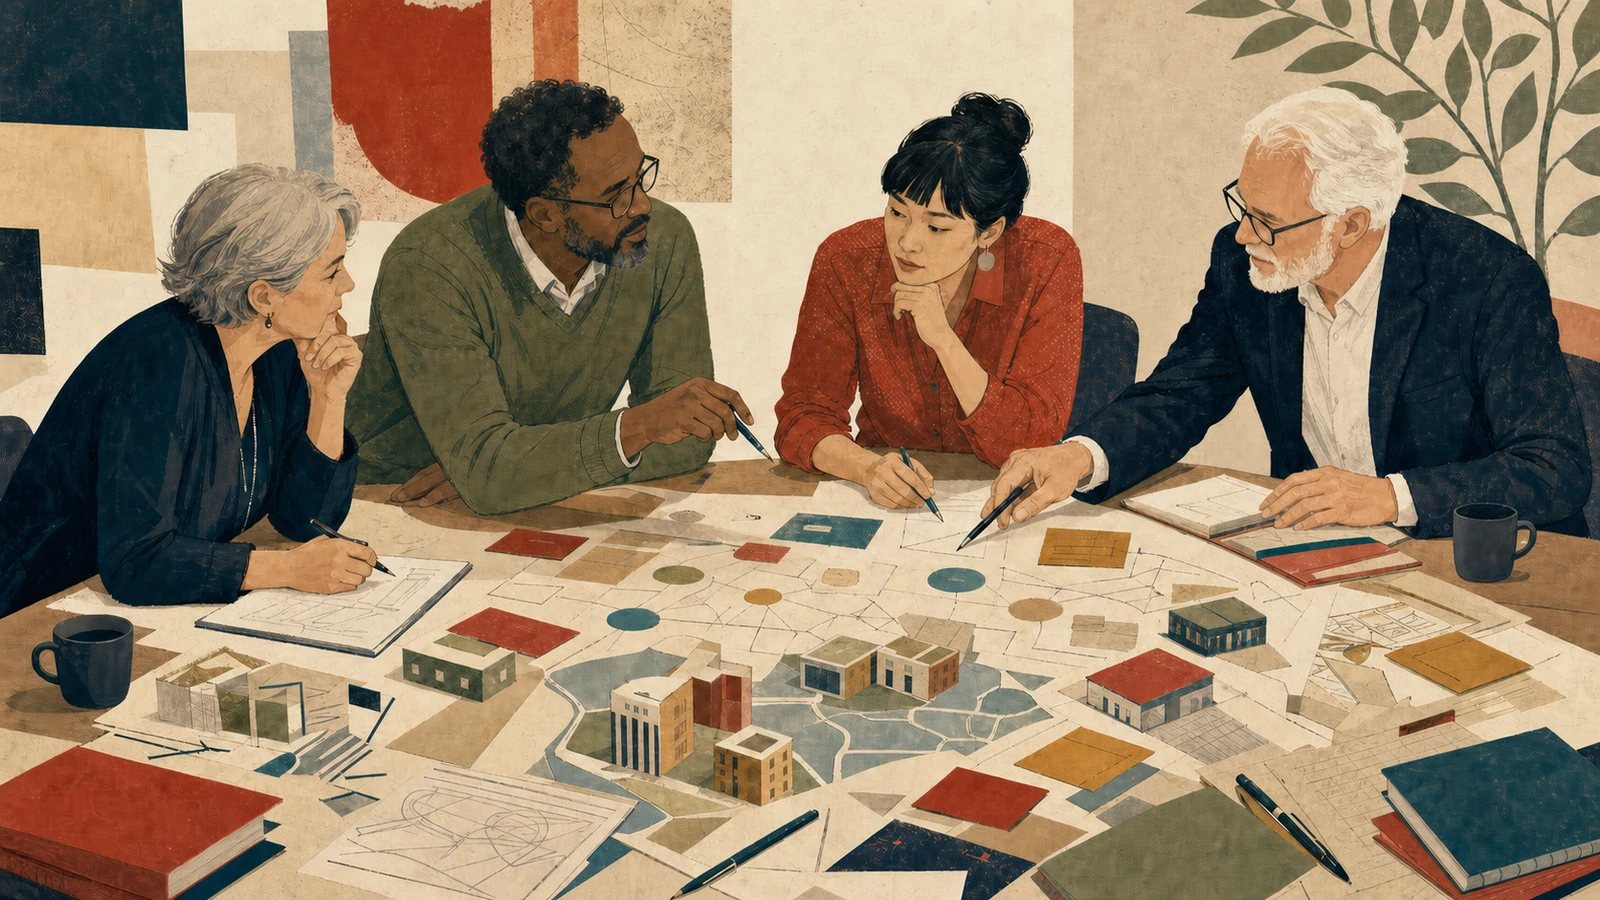
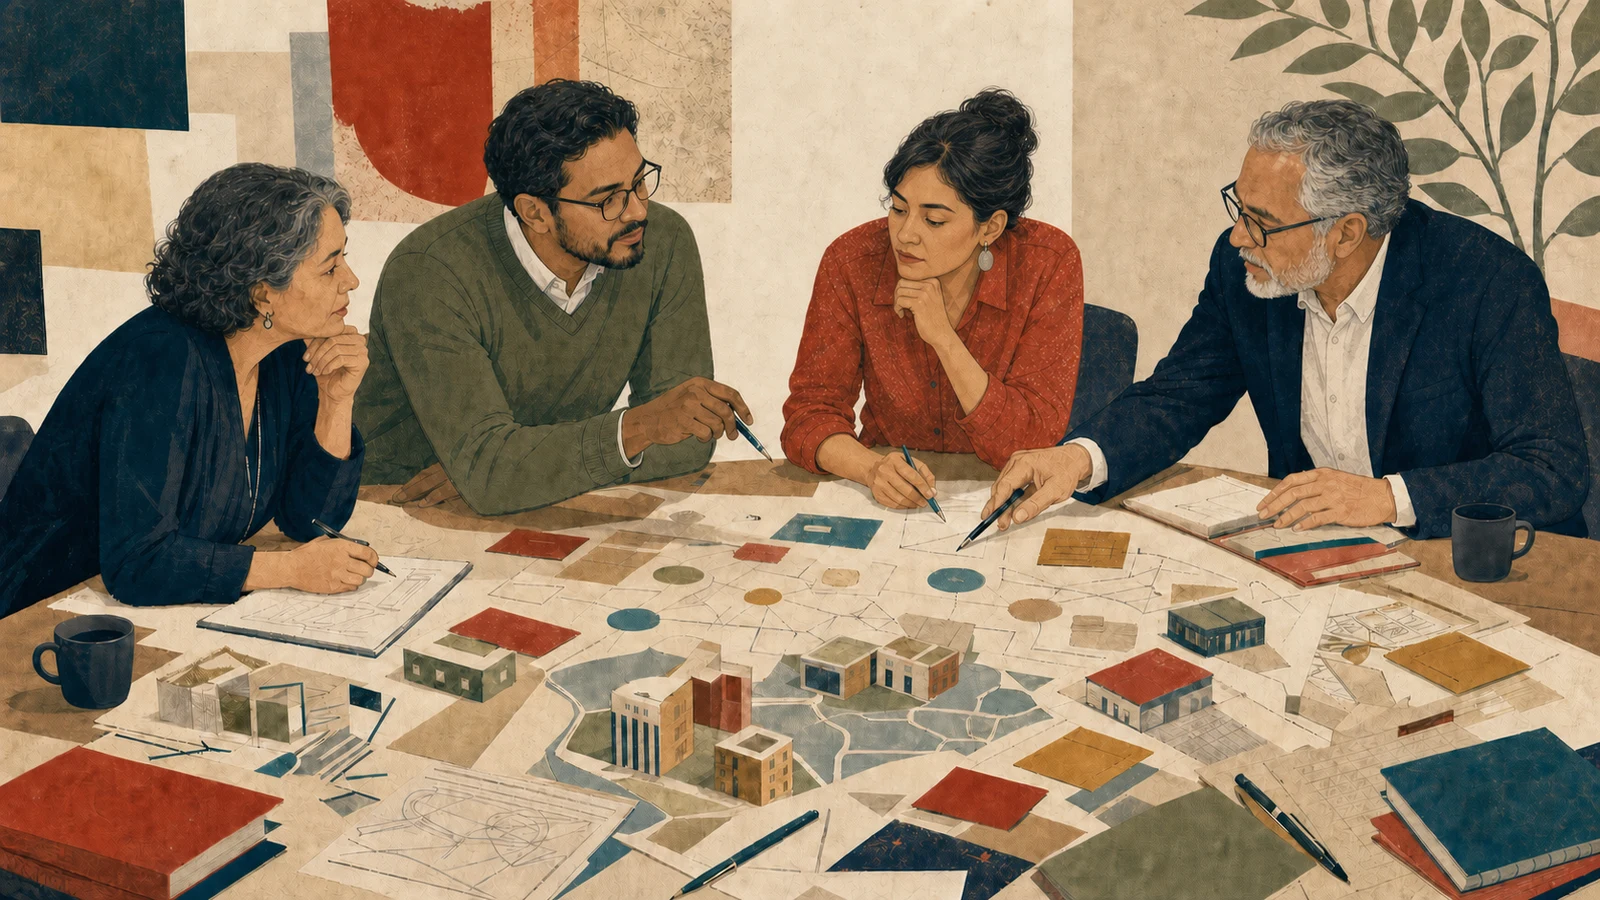
fix: contextualizar portada 004D en el Bajío

diff --git a/docs/editorial/UDGIA-004D-alcance-marco-ejecutivo.md b/docs/editorial/UDGIA-004D-alcance-marco-ejecutivo.md
@@ -89,6 +89,12 @@ académicas sin logos, texto incrustado, robots ni símbolos de autoridad única
 la herramienta integrada `imagegen`, se corrigió para retirar una cúpula central y se
 normalizó a 1600 × 900 px.
 
+La revisión del 2026-07-28 contextualizó a las cuatro personas en una universidad pública
+del Bajío y el centro-occidente mexicano. El criterio no es crear un fenotipo uniforme, sino
+mostrar una diversidad regional contemporánea y plausible mediante rasgos, tonos de piel y
+cabello. La contextualización no usa vestuario tradicional, banderas, arquitectura colonial,
+artesanías, paisaje, pobreza ni otros atajos folklorizantes o turísticos.
+
 El mapa de seis decisiones es un SVG determinista con `title` y `desc`. La página incluye
 inmediatamente una lista textual equivalente; ninguna decisión depende del gráfico.
 
